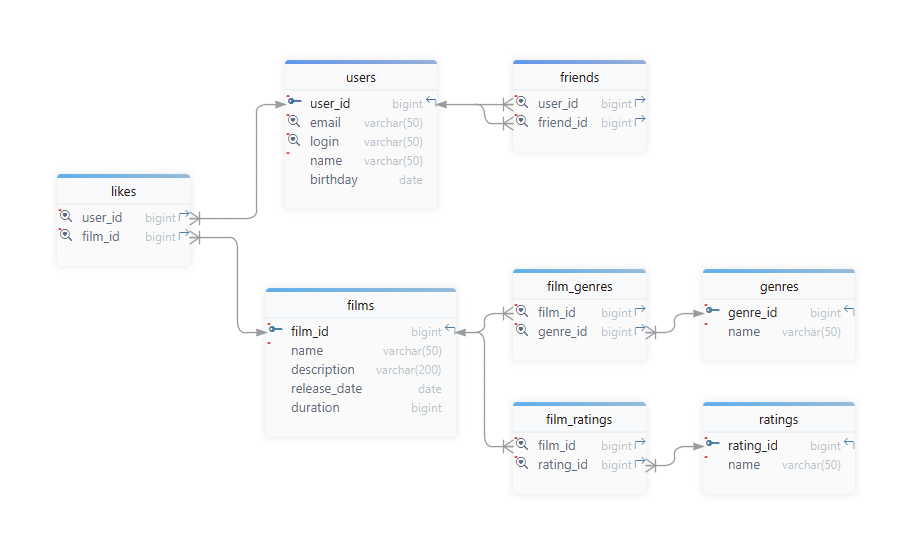
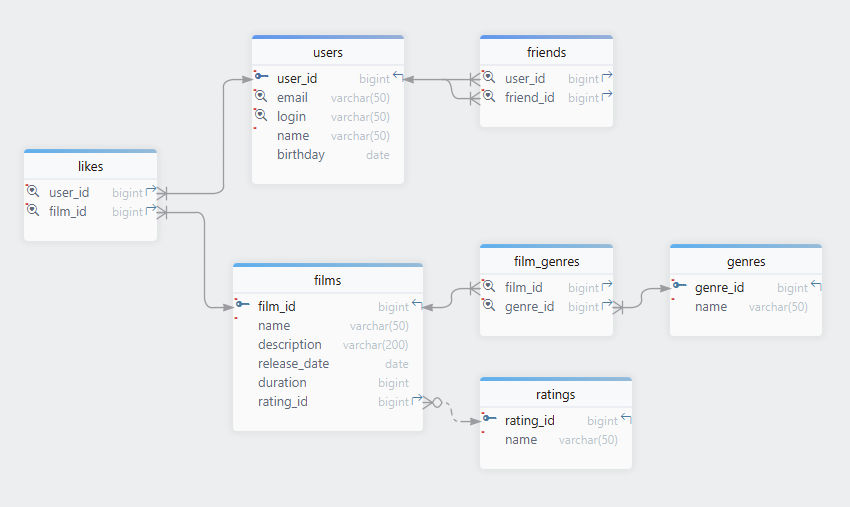
fix: corrected DB schema to make reference between films and ratings one-to-many

diff --git a/README.md b/README.md
@@ -24,6 +24,7 @@ name           // varchar(50), not null
 description    // varchar(200)
 release_date   // date
 duration       // bigint
+rating_id      // bigint, Foreign Key -> ratings.rating_id
 ```
 ### Table "likes"
 ```declarative
@@ -46,10 +47,4 @@ genre_id       // bigint, not null, Foreign Key -> genres.genre_id
 ```declarative
 rating_id      // bigint, Primary Key, autoincrement, not null
 name           // varchar(50), not null
-```
-### Table "film_ratings"
-```declarative
-film_id        // bigint, not null, Foreign Key -> films.film_id
-rating_id      // bigint, not null, Foreign Key -> ratings.rating_id
-  // + Unique key (user_id, film_id)
 ```
